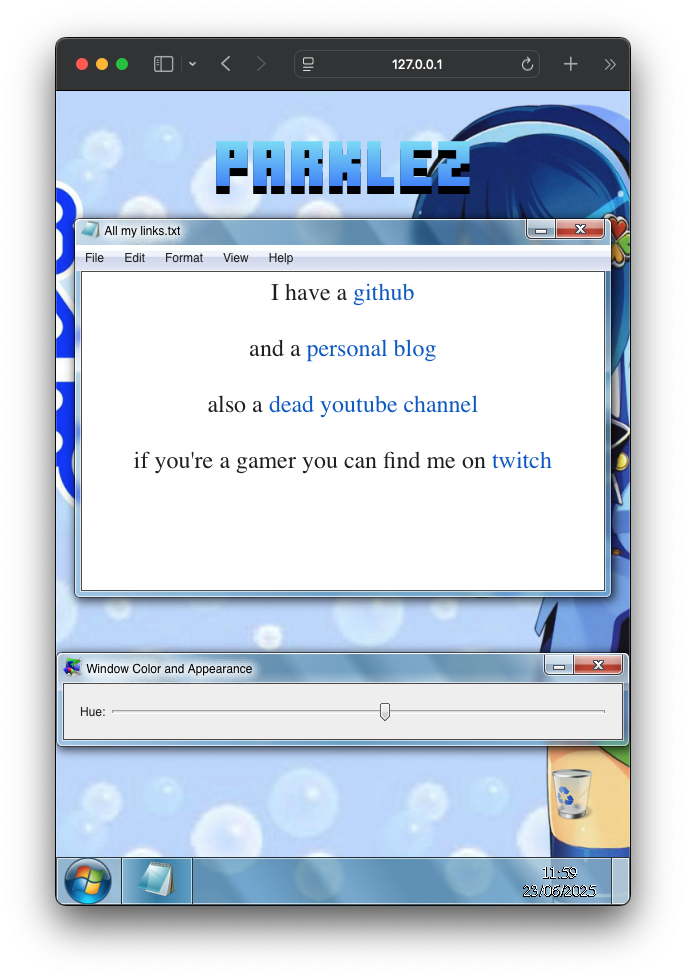
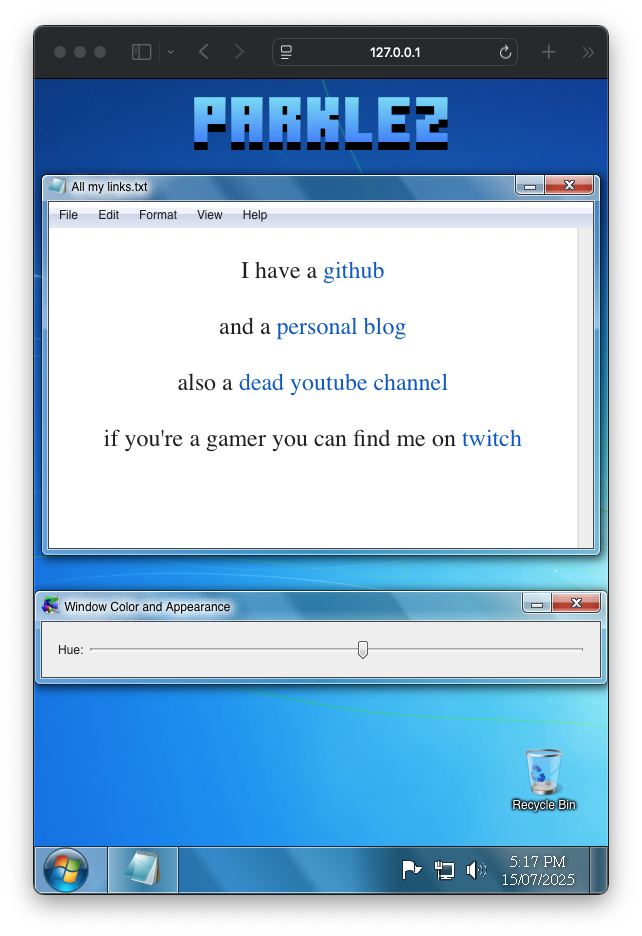
Windows 7 Aero - Refactor, Cleanup, Draggable Windows

diff --git a/index.html b/index.html
@@ -6,7 +6,7 @@
   <meta name="viewport" content="width=device-width, initial-scale=1.0" />
   <title>parky's card</title>
   <link rel="stylesheet" href="./style.css" />
-  <script type="module" src="./script.js"></script>
+  <script type="module" src="./src/script.js"></script>
 </head>
 
 <body>
@@ -19,7 +19,7 @@
     <div id="content">
       <!-- Notepad window -->
       <div id="notepad-window" class="window glass active">
-        <div class="title-bar">
+        <div id="notepad-window-header" class="title-bar">
           <div>
             <!-- This icon needs rework to be vertically centered -->
             <img src="resources/notepad-icon.ico" alt="Notepad Icon" width="20" height="20"
@@ -115,25 +115,23 @@
       </div>
 
       <!-- Personalization window -->
-      <div class="background">
-        <div class="window glass active" style="max-width: 100%">
-          <div class="title-bar">
-            <div>
-              <!-- This icon needs rework to be vertically centered -->
-              <img src="resources/personalize-icon.ico" alt="Notepad Icon" width="20" height="20"
-                style="vertical-align: bottom; margin-top: 4px" />
-              <span class="title-bar-text">Window Color and Appearance</span>
-            </div>
-            <div class="title-bar-controls">
-              <button aria-label="Minimize"></button>
-              <button aria-label="Close"></button>
-            </div>
+      <div id="personalization-window" class="window glass active">
+        <div id="personalization-window-header" class="title-bar">
+          <div>
+            <!-- This icon needs rework to be vertically centered -->
+            <img src="resources/personalize-icon.ico" alt="Notepad Icon" width="20" height="20"
+              style="vertical-align: bottom; margin-top: 4px" />
+            <span class="title-bar-text">Window Color and Appearance</span>
           </div>
-          <div class="window-body has-space" style="padding: 1rem">
-            <div class="field-row">
-              <label>Hue:</label>
-              <input type="range" min="1" max="100" value="56" />
-            </div>
+          <div class="title-bar-controls">
+            <button aria-label="Minimize"></button>
+            <button aria-label="Close"></button>
+          </div>
+        </div>
+        <div class="window-body has-space" style="padding: 1rem">
+          <div class="field-row">
+            <label>Hue:</label>
+            <input type="range" min="1" max="100" value="56" />
           </div>
         </div>
       </div>

diff --git a/src/draggable-windows.js b/src/draggable-windows.js
@@ -1,0 +1,57 @@
+const draggableElements = [];
+
+
+function makeElementDraggable(element) {
+  let previousX = 0;
+  let previousY = 0;
+  let currentX = 0;
+  let currentY = 0;
+  
+  const header = document.getElementById(`${element.id}-header`);
+  header.addEventListener('mousedown', startDragging);
+  draggableElements.push(element);
+
+  function startDragging(event) {
+    event.preventDefault();
+    currentX = event.clientX;
+    currentY = event.clientY;
+
+    updateZIndex(element);
+    
+    document.addEventListener('mousemove', drag);
+    document.addEventListener('mouseup', stopDragging);
+  }
+
+  function updateZIndex(activeElement) {
+    const maxZIndex = draggableElements.length;
+
+    draggableElements.forEach((element, index) => {
+      const zIndex = element.style.zIndex ? parseInt(element.style.zIndex) : index;
+
+      if (element === activeElement) {
+        element.style.zIndex = maxZIndex;
+      } else {
+        element.style.zIndex = Math.min(zIndex, maxZIndex - 1);
+      }
+    });
+  }
+
+  function drag(event) {
+    event.preventDefault();
+
+    previousX = currentX - event.clientX;
+    previousY = currentY - event.clientY;
+    currentX = event.clientX;
+    currentY = event.clientY;
+
+    element.style.top = `${element.offsetTop - previousY}px`;
+    element.style.left = `${element.offsetLeft - previousX}px`;
+  }
+
+  function stopDragging() {
+    document.removeEventListener('mousemove', drag);
+    document.removeEventListener('mouseup', stopDragging);
+  }
+}
+
+export { makeElementDraggable };

diff --git a/style.css b/style.css
@@ -10,8 +10,14 @@
 }
 
 html {
-  background: url("./resources/wallpaper.jpeg") no-repeat center center fixed;
+  background: url("./resources/wallpaper.jpg") no-repeat center fixed;
   background-size: cover;
+}
+
+/* This improves the glass effect for title bars, albeit far from perfect */
+.window.glass > .title-bar {
+  background-attachment: unset;
+  cursor: default;
 }
 
 #page {
@@ -27,6 +33,7 @@ html {
   background: linear-gradient(to top, #1352ff, #9bfff5);
   background-clip: text;
   -webkit-text-fill-color: transparent;
+  cursor: default;
 }
 
 #fake-shadow {
@@ -42,7 +49,12 @@ html {
 }
 
 #notepad-window {
-  margin: 1.5em;
+  position: absolute;
+  top: 6rem;
+  left: 50%;
+  transform: translateX(-50%);
+  width: 35rem;
+  max-width: 100%
 }
 
 #notepad-text-area {
@@ -52,6 +64,15 @@ html {
   background-color: white;
   overflow-y: scroll;
   height: 20rem;
+}
+
+#personalization-window {
+  position: absolute;
+  top: 32rem;
+  left: 50%;
+  width: 40rem;
+  transform: translateX(-50%);
+  max-width: 100%;
 }
 
 #taskbar {

diff --git a/src/clock.js b/src/clock.js
@@ -1,0 +1,19 @@
+function getCurrentTime() {
+  const now = new Date();
+  let hours = now.getHours();
+  const minutes = now.getMinutes().toString().padStart(2, "0");
+  const ampm = hours >= 12 ? "PM" : "AM";
+  hours = hours % 12 || 12;
+  const day = now.getDate().toString().padStart(2, "0");
+  const month = (now.getMonth() + 1).toString().padStart(2, "0");
+  const year = now.getFullYear().toString();
+  const clockText = `${hours}:${minutes} ${ampm} <br /> ${day}/${month}/${year}`;
+  return clockText;
+}
+
+function setClock(elementId) {
+  document.getElementById(elementId).innerHTML = getCurrentTime();
+  setInterval(() => setClock(elementId), 10000);
+}
+
+export { setClock };

diff --git a/src/aero-effect.js b/src/aero-effect.js
@@ -1,0 +1,13 @@
+function changeAeroColor() {
+    const value = document.querySelector('input[type="range"]').valueAsNumber;
+    const h = Math.floor((value / 100) * 360);
+    const s = 50;
+    const l = 50;
+    const hex = `hsl(${h}, ${s}%, ${l}%)`;
+    const taskbarHex = `hsl(${h}, ${s}%, ${l}%, 60%)`;
+    document.documentElement.style.setProperty('--window-background-color', hex);
+    // This is a hack to make the taskbar transparent
+    document.documentElement.style.setProperty('--taskbar-color', taskbarHex);
+}
+
+export { changeAeroColor };

diff --git a/src/script.js b/src/script.js
@@ -1,0 +1,12 @@
+import { changeAeroColor } from "./aero-effect.js";
+import { setClock } from "./clock.js";
+import { makeElementDraggable } from "./draggable-windows.js";
+
+// Initialize the clock and aero effect
+changeAeroColor();
+document.querySelector('input[type="range"]').addEventListener('input', changeAeroColor);
+setClock("clock");
+
+// Initialize draggable windows
+makeElementDraggable(document.getElementById("notepad-window"));
+makeElementDraggable(document.getElementById("personalization-window"));
